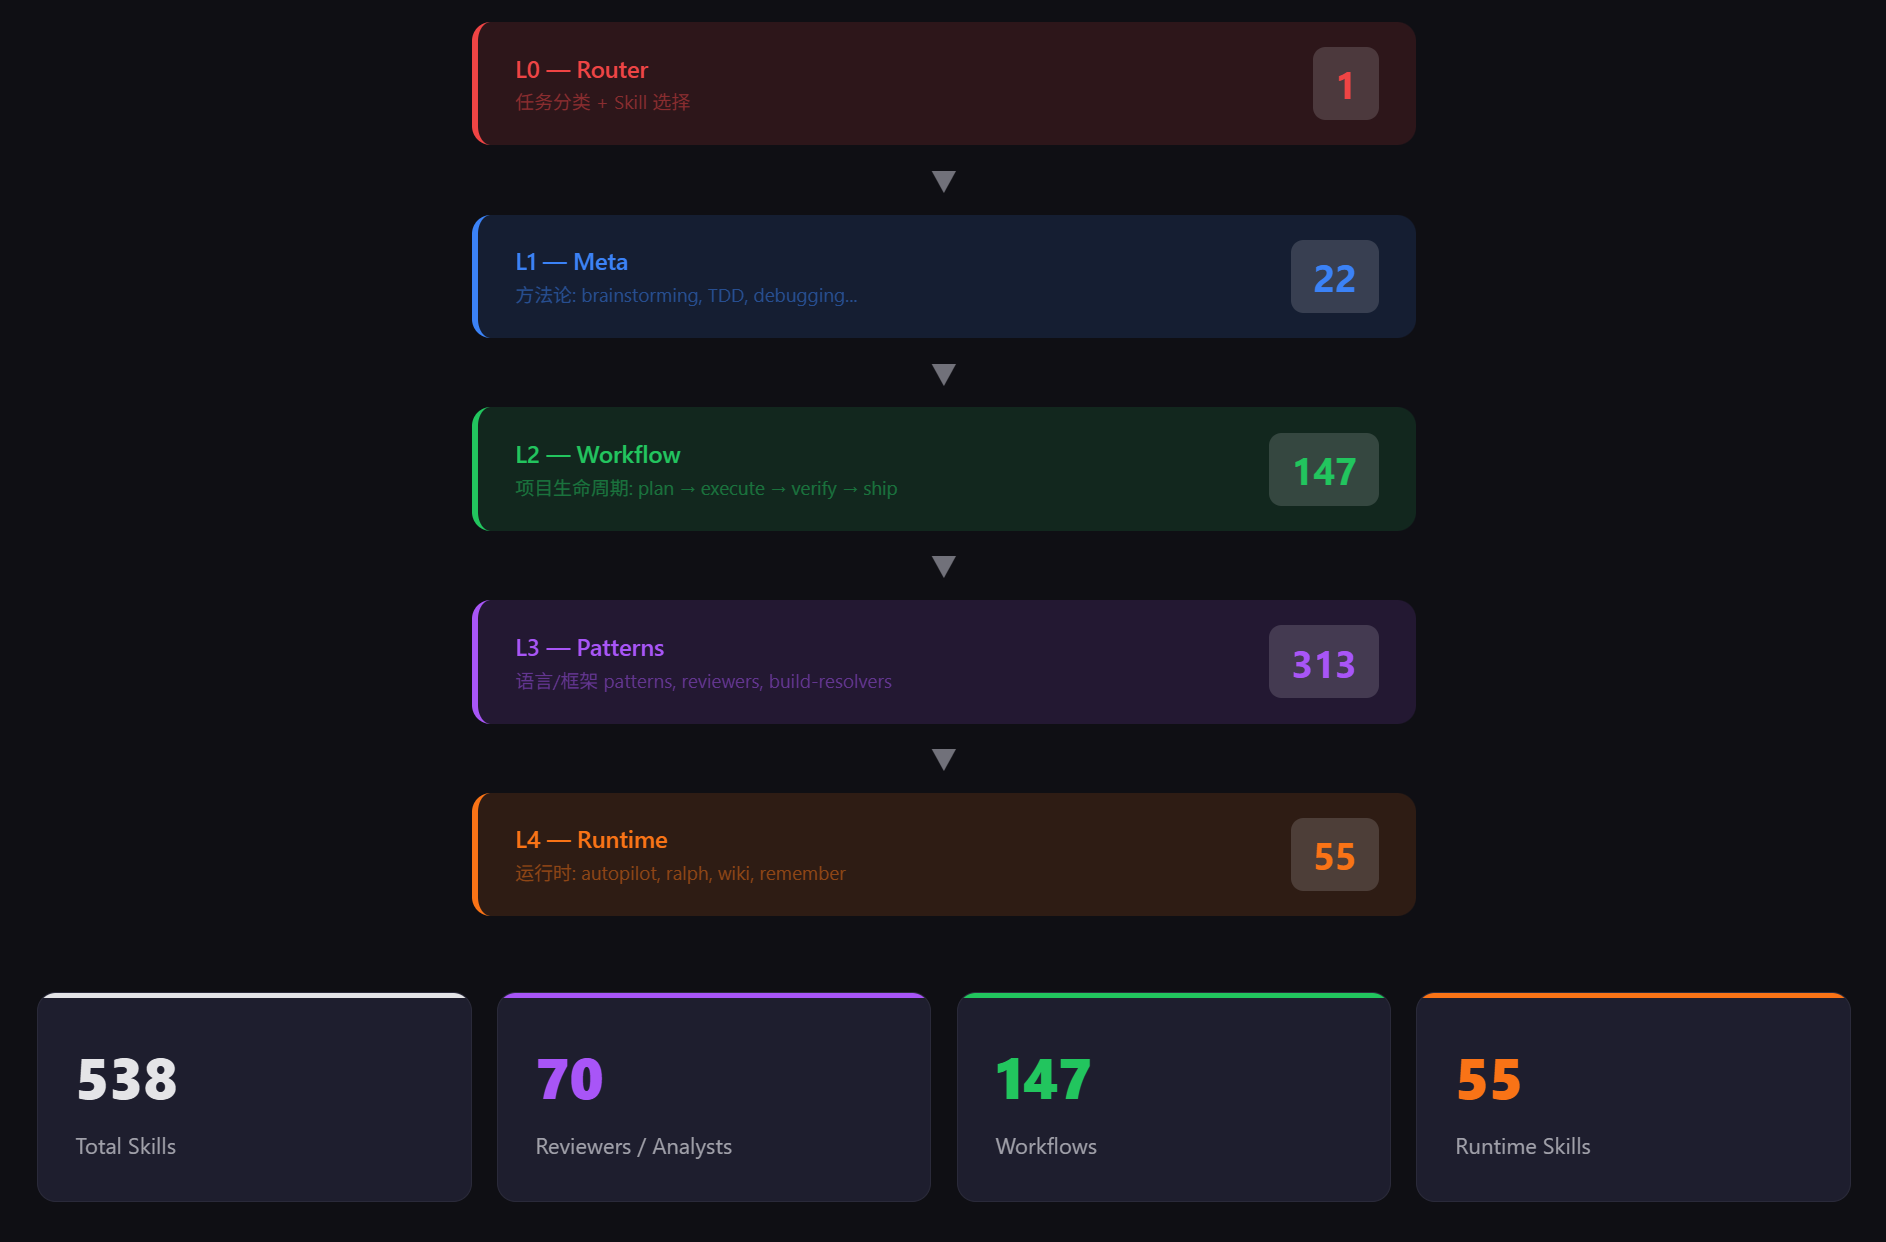
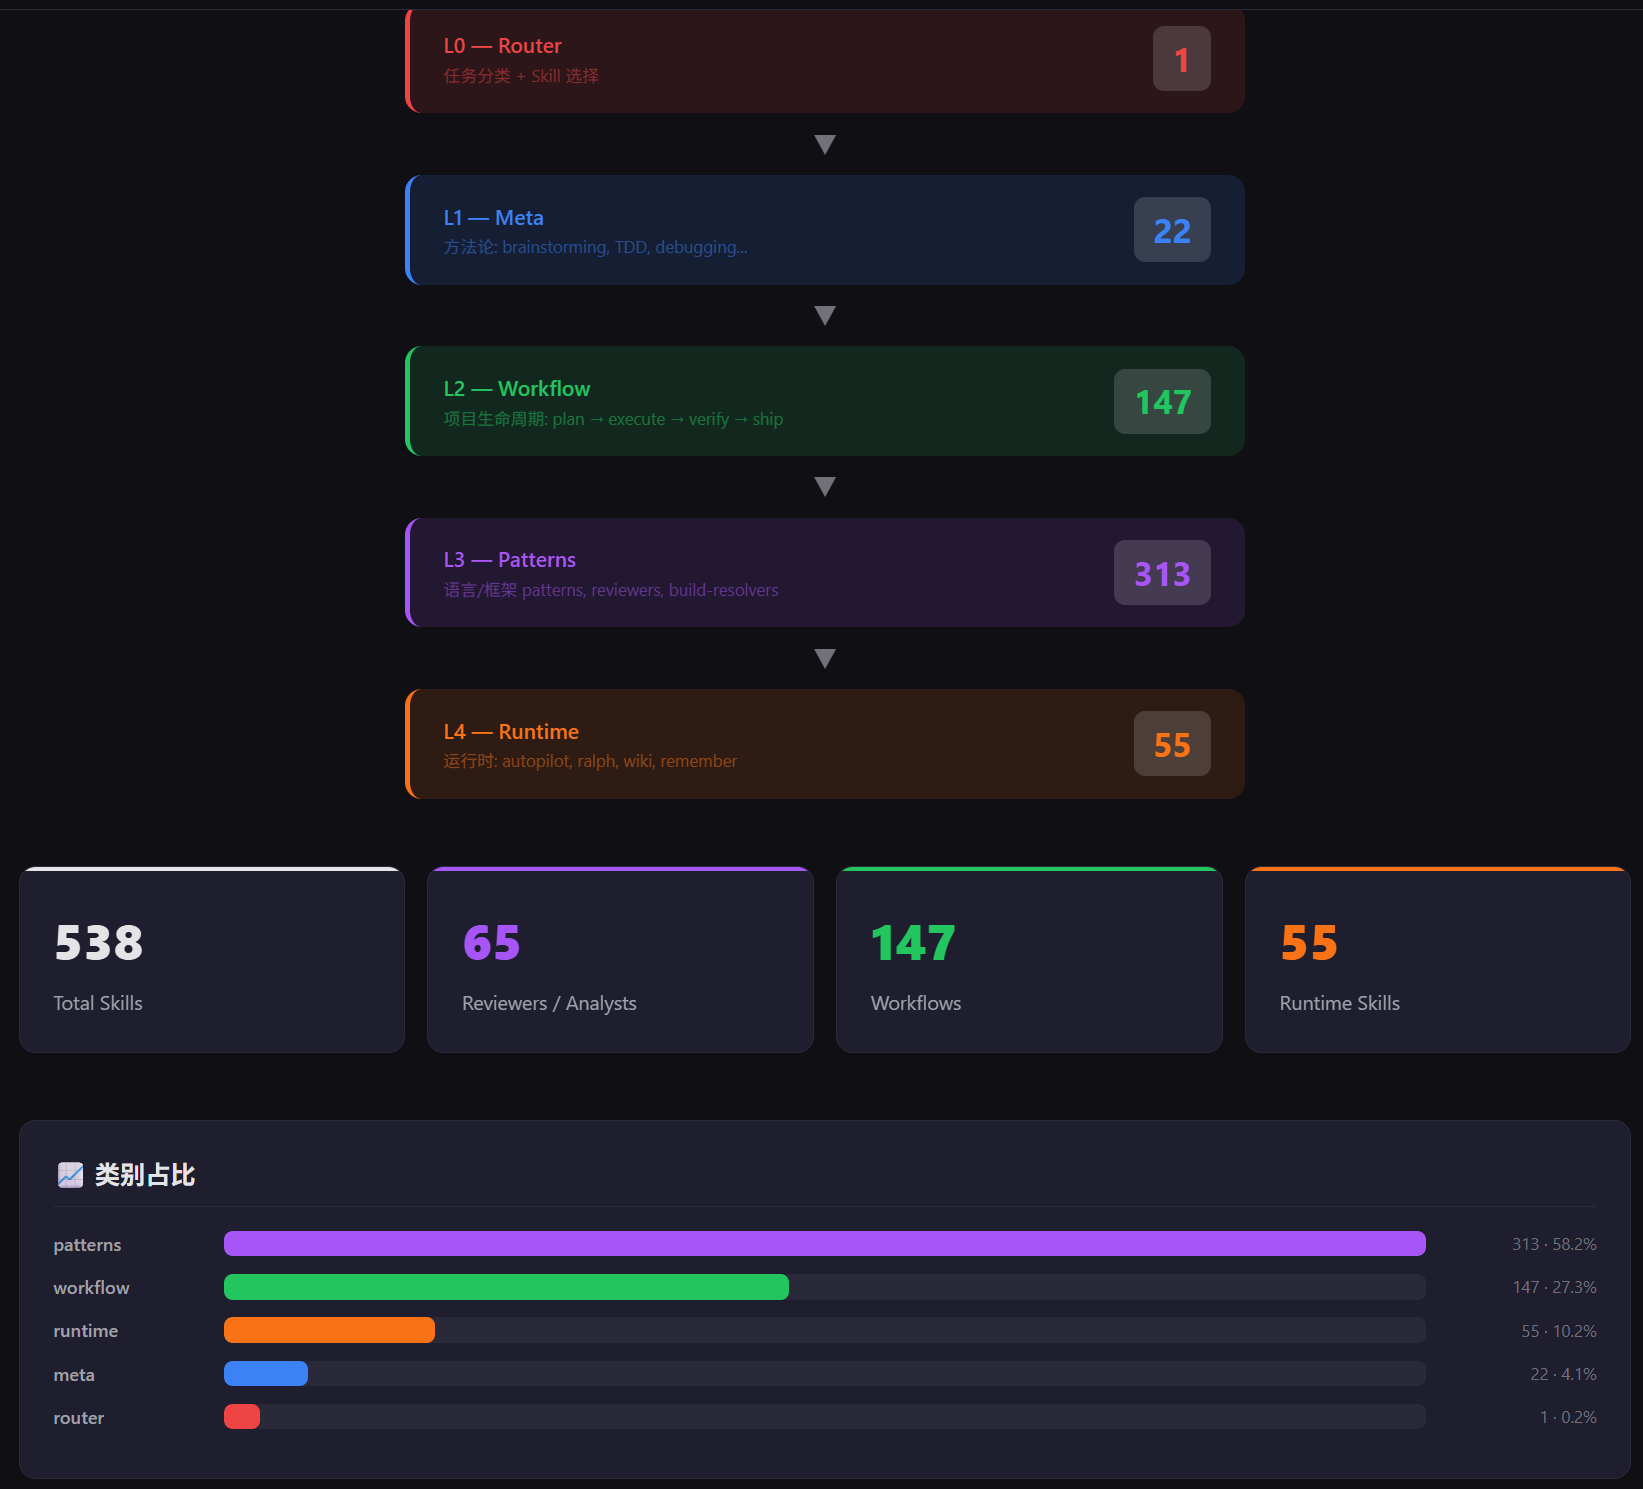
chore(release): prep v0.7.0 for npm publish
- Drop stale VERSION entry from package.json files whitelist
- Unify repo owner to maythyai across docs, install.sh, package.json

diff --git a/docs/INSTALL.md b/docs/INSTALL.md
@@ -4,7 +4,7 @@
 
 ## Prerequisites
 
-- Clone CSP repository locally: `git clone https://github.com/chensaics/code-skills-package.git`
+- Clone CSP repository locally: `git clone https://github.com/maythyai/code-skills-package.git`
 - Or install remotely via one-liner command (no clone required)
 - Or install globally via npm
 
@@ -33,19 +33,19 @@ When user hasn't cloned CSP project, install directly via one-liner command (ins
 ```bash
 # Auto-detect platform and install to current directory
 cd /path/to/your/project
-curl -fsSL https://raw.githubusercontent.com/chensaics/code-skills-package/master/install.sh | bash -s --
+curl -fsSL https://raw.githubusercontent.com/maythyai/code-skills-package/master/install.sh | bash -s --
 
 # Specify platform
-curl -fsSL https://raw.githubusercontent.com/chensaics/code-skills-package/master/install.sh | bash -s -- --platform cursor
+curl -fsSL https://raw.githubusercontent.com/maythyai/code-skills-package/master/install.sh | bash -s -- --platform cursor
 
 # Specify platform + target directory
-curl -fsSL https://raw.githubusercontent.com/chensaics/code-skills-package/master/install.sh | bash -s -- --platform cursor --target /path/to/your/project
+curl -fsSL https://raw.githubusercontent.com/maythyai/code-skills-package/master/install.sh | bash -s -- --platform cursor --target /path/to/your/project
 
 # Filter by tech stack
-curl -fsSL https://raw.githubusercontent.com/chensaics/code-skills-package/master/install.sh | bash -s -- --platform cursor --stacks python,typescript
+curl -fsSL https://raw.githubusercontent.com/maythyai/code-skills-package/master/install.sh | bash -s -- --platform cursor --stacks python,typescript
 
 # Global installation
-curl -fsSL https://raw.githubusercontent.com/chensaics/code-skills-package/master/install.sh | bash -s -- --platform cursor --global
+curl -fsSL https://raw.githubusercontent.com/maythyai/code-skills-package/master/install.sh | bash -s -- --platform cursor --global
 ```
 
 All `install.sh` supported parameters can be passed to remote installation script via `bash -s --`.

diff --git a/docs/INSTALL_zh.md b/docs/INSTALL_zh.md
@@ -4,7 +4,7 @@
 
 ## 前置条件
 
-- 克隆 CSP 仓库到本地：`git clone https://github.com/chensaics/code-skills-package.git`
+- 克隆 CSP 仓库到本地：`git clone https://github.com/maythyai/code-skills-package.git`
 - 或通过一行命令远程安装（无需克隆）
 - 或通过 npm 全局安装
 
@@ -33,19 +33,19 @@
 ```bash
 # 自动检测平台并安装到当前目录
 cd /path/to/your/project
-curl -fsSL https://raw.githubusercontent.com/chensaics/code-skills-package/master/install.sh | bash -s --
+curl -fsSL https://raw.githubusercontent.com/maythyai/code-skills-package/master/install.sh | bash -s --
 
 # 指定平台
-curl -fsSL https://raw.githubusercontent.com/chensaics/code-skills-package/master/install.sh | bash -s -- --platform cursor
+curl -fsSL https://raw.githubusercontent.com/maythyai/code-skills-package/master/install.sh | bash -s -- --platform cursor
 
 # 指定平台 + 目标目录
-curl -fsSL https://raw.githubusercontent.com/chensaics/code-skills-package/master/install.sh | bash -s -- --platform cursor --target /path/to/your/project
+curl -fsSL https://raw.githubusercontent.com/maythyai/code-skills-package/master/install.sh | bash -s -- --platform cursor --target /path/to/your/project
 
 # 按技术栈过滤
-curl -fsSL https://raw.githubusercontent.com/chensaics/code-skills-package/master/install.sh | bash -s -- --platform cursor --stacks python,typescript
+curl -fsSL https://raw.githubusercontent.com/maythyai/code-skills-package/master/install.sh | bash -s -- --platform cursor --stacks python,typescript
 
 # 全局安装
-curl -fsSL https://raw.githubusercontent.com/chensaics/code-skills-package/master/install.sh | bash -s -- --platform cursor --global
+curl -fsSL https://raw.githubusercontent.com/maythyai/code-skills-package/master/install.sh | bash -s -- --platform cursor --global
 ```
 
 所有 `install.sh` 支持的参数都可以通过 `bash -s --` 传递给远程安装脚本。

diff --git a/README.md b/README.md
@@ -85,16 +85,15 @@ Users can define custom workflows via `.csp/recipes.yaml`, create new skills int
 # Install for a specific platform (18 supported)
 ./install.sh --platform claude-code
 ./install.sh --platform cursor
-./install.sh --platform tra
 
 # Install into any target directory (no need to clone this project here)
 ./install.sh --platform cursor --target /path/to/your/project
 
 # Remote one-line install (no clone required)
-curl -fsSL https://raw.githubusercontent.com/chensaics/code-skills-package/master/install.sh | bash -s -- --platform cursor
+curl -fsSL https://raw.githubusercontent.com/maythyai/code-skills-package/master/install.sh | bash -s -- --platform cursor
 
 # Remote install to a specific target directory
-curl -fsSL https://raw.githubusercontent.com/chensaics/code-skills-package/master/install.sh | bash -s -- --platform cursor --target /path/to/your/project
+curl -fsSL https://raw.githubusercontent.com/maythyai/code-skills-package/master/install.sh | bash -s -- --platform cursor --target /path/to/your/project
 
 # npm global install
 npm install -g code-skills-package

diff --git a/README_zh.md b/README_zh.md
@@ -90,7 +90,7 @@ CSP（Code Skills Package）将多个开源 AI 编程项目的精华整合为一
 ./install.sh --platform cursor --target /path/to/your/project
 
 # 一行远程安装
-curl -fsSL https://raw.githubusercontent.com/chensaics/code-skills-package/master/install.sh | bash -s -- --platform cursor
+curl -fsSL https://raw.githubusercontent.com/maythyai/code-skills-package/master/install.sh | bash -s -- --platform cursor
 
 # npm 全局安装
 npm install -g code-skills-package

diff --git a/docs/UPDATE.md b/docs/UPDATE.md
@@ -84,7 +84,7 @@ git pull
 
 ```bash
 cd /path/to/your/project
-curl -fsSL https://raw.githubusercontent.com/chensaics/code-skills-package/master/install.sh | bash -s -- --platform cursor
+curl -fsSL https://raw.githubusercontent.com/maythyai/code-skills-package/master/install.sh | bash -s -- --platform cursor
 ```
 
 ---